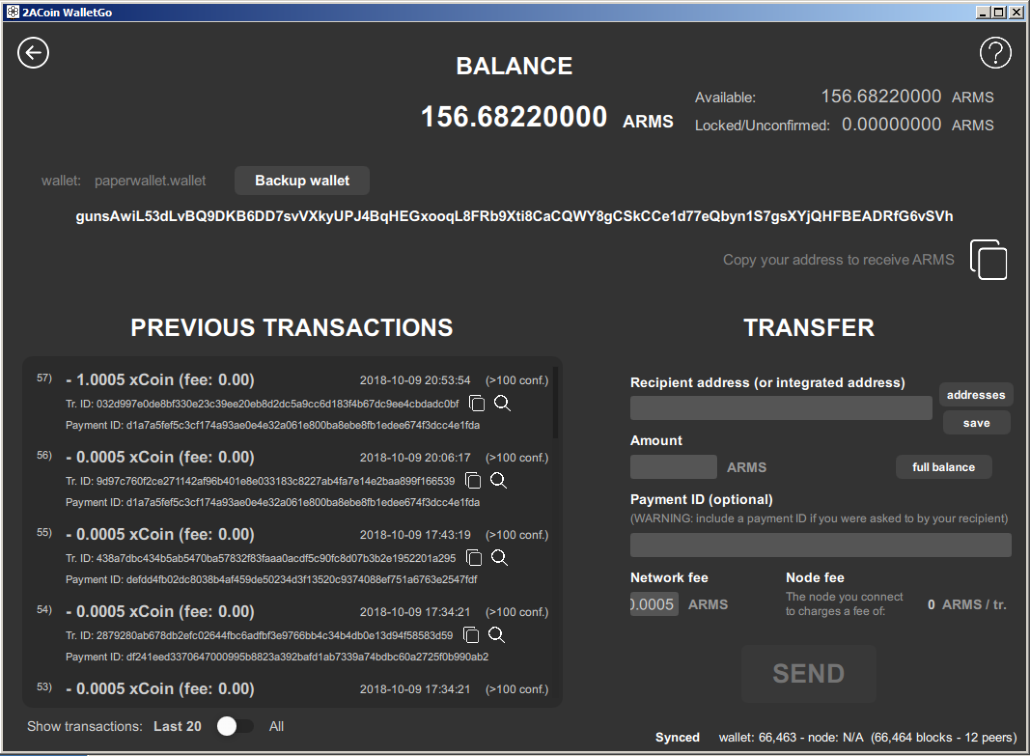
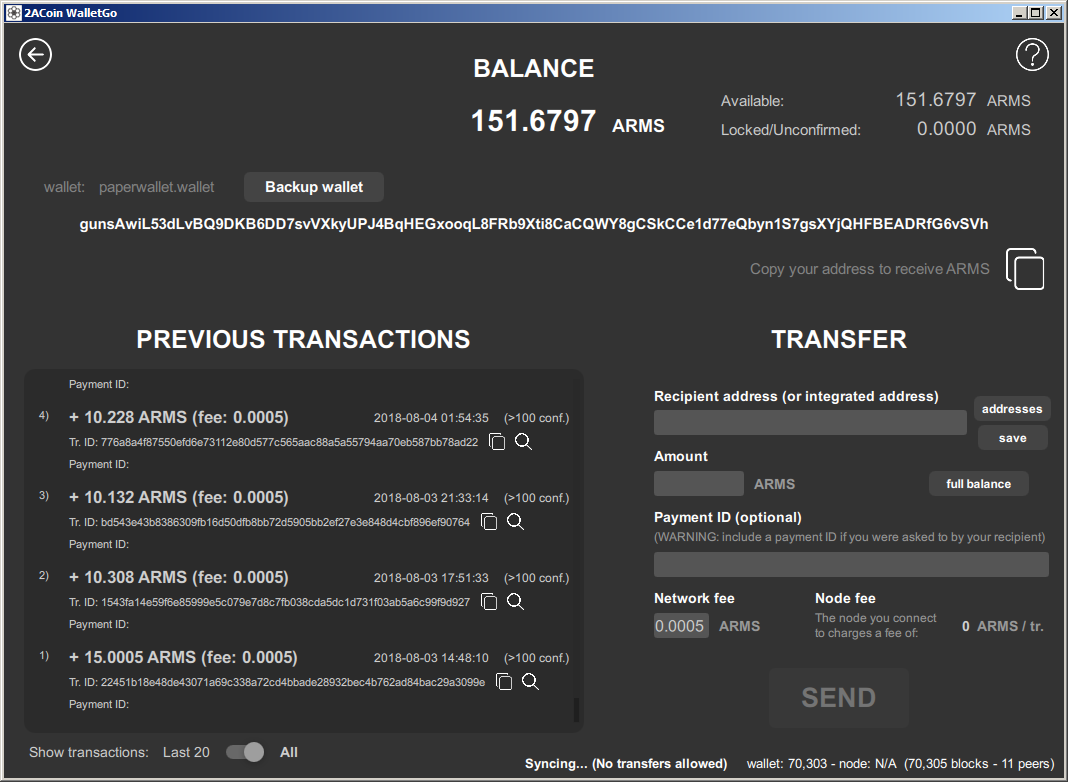
Minor tweaks and cosmetics

diff --git a/qml/OpenWallet.qml b/qml/OpenWallet.qml
@@ -99,13 +99,14 @@ Rectangle {
                     currentIndex: 0
                     implicitWidth: 300
                     implicitHeight: 30
-                    font.pixelSize: 14
-                    font.family: "Arial"
                     textRole: "text"
 
                     contentItem: Text {
                         text: parent.displayText
                         color: "#cfcfcf"
+                        font.pixelSize: 14
+                        font.family: "Arial"
+                        
                         verticalAlignment: Text.AlignVCenter
                         leftPadding: 10
                         elide: Text.ElideRight

diff --git a/qml/Wallet.qml b/qml/Wallet.qml
@@ -910,7 +910,7 @@ Rectangle {
             anchors.top: textTransferFeeDescr.bottom
             anchors.topMargin: 7
             height: 25
-            width: 50
+            width: 55
             radius: 3
 
             TextInput {

diff --git a/main.go b/main.go
@@ -561,7 +561,7 @@ func getAndDisplayListTransactions(forceFullUpdate bool) {
 					amountString += "- "
 					amountString += strconv.FormatFloat(-amount, 'f', -1, 64)
 				}
-				amountString += " 2ACoin (fee: " + strconv.FormatFloat(transfer.Fee, 'f', 2, 64) + ")"
+				amountString += " ARMS (fee: " + strconv.FormatFloat(transfer.Fee, 'f', 4, 64) + ")"
 				confirmationsString := confirmationsStringRepresentation(transfer.Confirmations)
 				timeString := transfer.Timestamp.Format("2006-01-02 15:04:05")
 				transactionNumberString := strconv.Itoa(transactionNumber) + ")"

diff --git a/xcoinwalletdrpcgo/walletdrpc.go b/xcoinwalletdrpcgo/walletdrpc.go
@@ -32,7 +32,7 @@ type Transfer struct {
 }
 
 var (
-	rpcURL = "http://127.0.0.1:17760/json_rpc"
+	rpcURL = "http://127.0.0.1:8070/json_rpc"
 )
 
 // RequestBalance provides the available and locked balances of the current wallet
